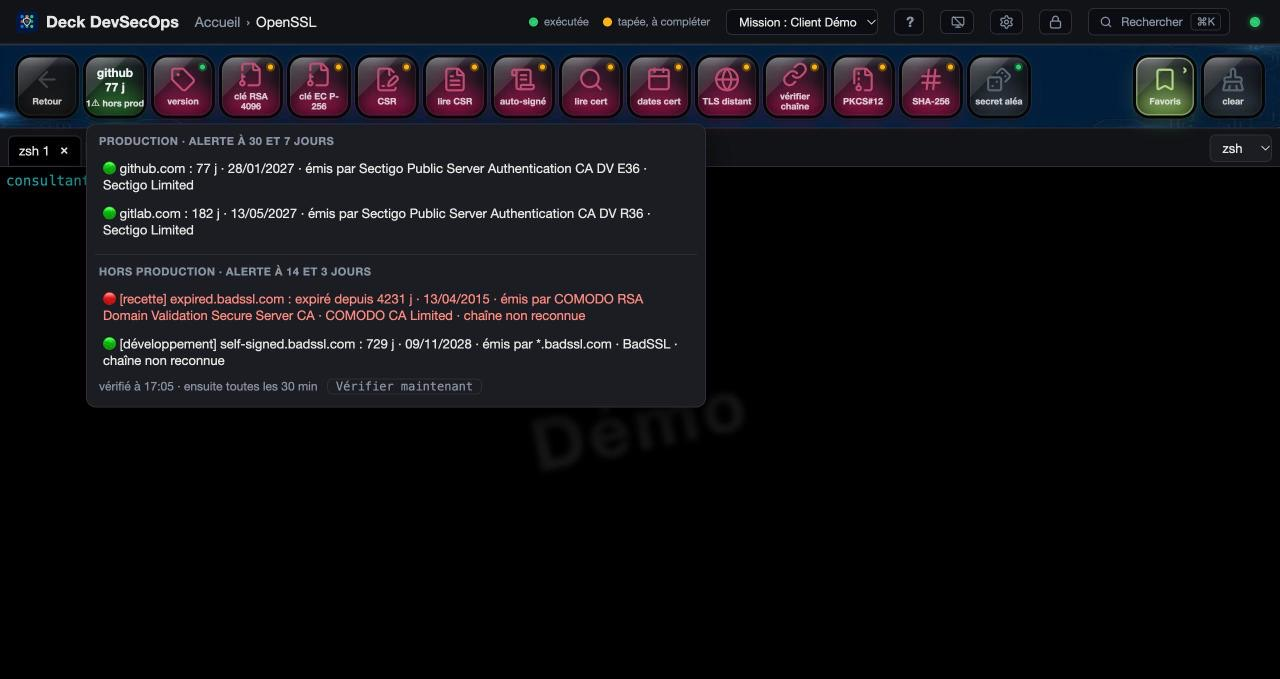
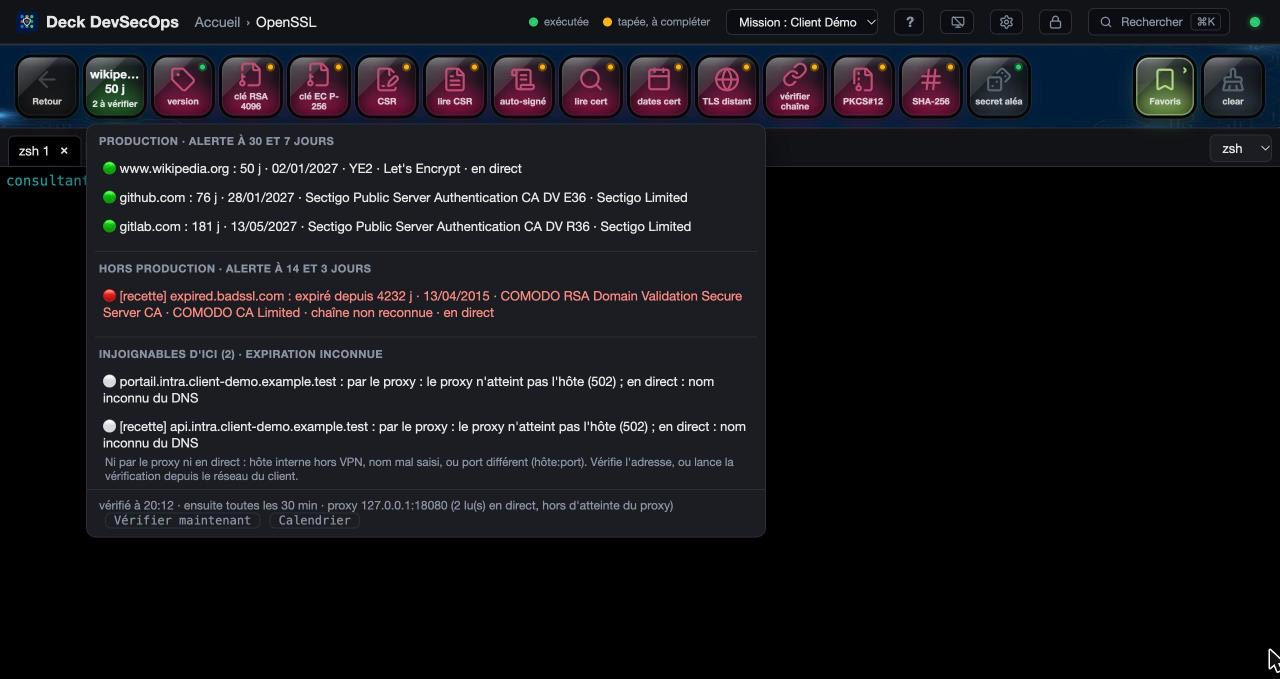
Certificats : repli en direct quand le proxy n'atteint pas l'hôte, affichage clarifié
- Proxy qui n'atteint pas un hôte (502/503/504, refus, délai : noms internes *.intra…) :
  nouvel essai sans le proxy ; certificat marqué « en direct » ; chemin retenu par hôte
  pour la vérification suivante ; si les deux échouent, les deux raisons
- Touche : titre court (⚠ CERTS), nom sur une ligne (8 caractères), injoignables comptés
  à part (« N à vérifier ») au lieu d'être mêlés aux expirations
- Panneau : Production, Hors production, Injoignables d'ici (avec aide) ; proxy indiqué
  une fois ; barre du bas toujours visible
- Test du repli : serveur TLS local (certificat de test auto-signé, test/fixtures) et
  proxy qui répond 502 ; 85 tests
- docs/08 et capture ; README

Changed region(s): [[0.0625, 0.2165, 0.625, 0.8041], [0.0625, 0.0928, 0.125, 0.1546], [0.9688, 0.9588, 1.0, 0.9897]]

diff --git a/public/app.js b/public/app.js
@@ -706,7 +706,8 @@ function statusKey(id, statusId, key) {
             : s.detail ? `${s.detail}\nAppui : vérifier maintenant` : "Appui : rafraîchir";
 
     const title = Object.assign(document.createElement("span"), { className: "title", textContent: s.title });
-    const lines = Object.assign(document.createElement("span"), { className: "lines" });
+    // Certificats et patchs : nom d'hôte / de VM sur une seule ligne (tronqué), le pied de touche reste visible
+    const lines = Object.assign(document.createElement("span"), { className: `lines${["certs", "patches"].includes(statusId) ? " one-line" : ""}` });
     for (const text of s.lines) {
         const big = s.lines.length === 1 && text.length <= 4;
         lines.append(Object.assign(document.createElement("span"), { className: `line${big ? " big" : ""}`, textContent: text, title: text }));
@@ -1805,20 +1806,33 @@ function renderCertsPanel(checking = false) {
         const level = c.level ?? (c.days < 7 ? "rouge" : c.days < 30 ? "orange" : "ok");
         const dot = c.error ? "⚪" : c.intercepted ? "⚠" : level === "rouge" ? "🔴" : level === "orange" ? "🟠" : "🟢";
         const env = c.env && c.env !== "production" ? `[${c.env}] ` : "";
-        const via = c.via ? ` · via proxy ${c.via}` : "";
-        const when = c.error ? `injoignable, ${c.error}`
-            : c.intercepted ? `certificat du proxy (${c.issuer}) : la date du site n'est pas visible d'ici${via}`
-            : `${c.days < 0 ? `expiré depuis ${-c.days} j` : `${c.days} j`} · ${new Date(c.until).toLocaleDateString("fr-FR")} · émis par ${c.issuer || "?"}${c.trusted ? "" : " · chaîne non reconnue"}${via}`;
-        return { label: `${dot} ${env}${c.target} : ${when}`, title: c.reason ? `${c.target} : ${c.reason}` : c.target, onClick: () => {}, prod: !c.error && !c.intercepted && level === "rouge" };
+        // Chemin : le proxy est indiqué une fois en bas du panneau ; ici seulement le repli en direct
+        const route = c.direct ? " · en direct" : "";
+        const when = c.error ? c.error
+            : c.intercepted ? `certificat du proxy (${c.issuer}) : la date du site n'est pas visible d'ici`
+            : `${c.days < 0 ? `expiré depuis ${-c.days} j` : `${c.days} j`} · ${new Date(c.until).toLocaleDateString("fr-FR")} · ${c.issuer || "émetteur inconnu"}${c.trusted ? "" : " · chaîne non reconnue"}${route}`;
+        const title = [c.target, c.reason, c.via && !c.direct ? `via le proxy ${c.via}` : "", c.direct ? "le proxy n'atteint pas cet hôte : certificat lu en direct" : ""].filter(Boolean).join("\n");
+        return { label: `${dot} ${env}${c.target} : ${when}`, title, onClick: () => {}, prod: !c.error && !c.intercepted && level === "rouge" };
     };
-    // Production d'abord (seuils 30 / 7 j), puis les autres environnements (14 / 3 j)
+    // Production d'abord (seuils 30 / 7 j), puis les autres environnements (14 / 3 j), puis ce qui n'a pas pu être lu
     const all = s.items ?? [];
-    const prod = all.filter((c) => (c.env ?? "production") === "production").map(row);
-    const others = all.filter((c) => (c.env ?? "production") !== "production").map(row);
-    const sections = [pickerSection(`Production · alerte à 30 et 7 jours`, prod, all.length ? "aucun certificat de production" : "aucun certificat : Réglages › Missions › Modifier › Certificats à surveiller")];
+    const readable = all.filter((c) => !c.error);
+    const failed = all.filter((c) => c.error);
+    const prod = readable.filter((c) => (c.env ?? "production") === "production").map(row);
+    const others = readable.filter((c) => (c.env ?? "production") !== "production").map(row);
+    const sections = [];
+    if (prod.length || !all.length) sections.push(pickerSection("Production · alerte à 30 et 7 jours", prod, "aucun certificat : Réglages › Missions › Modifier › Certificats à surveiller"));
     if (others.length) sections.push(pickerSection("Hors production · alerte à 14 et 3 jours", others, ""));
+    if (failed.length) {
+        sections.push(pickerSection(`Injoignables d'ici (${failed.length}) · expiration inconnue`, failed.map(row), ""));
+        sections.push(Object.assign(document.createElement("p"), { className: "picker-note certs-hint",
+            textContent: "Ni par le proxy ni en direct : hôte interne hors VPN, nom mal saisi, ou port différent (hôte:port). Vérifie l'adresse, ou lance la vérification depuis le réseau du client." }));
+    }
+    const proxies = [...new Set(all.map((c) => c.via).filter(Boolean))];
+    const direct = all.filter((c) => c.direct).length;
+    const route = proxies.length ? ` · proxy ${proxies.join(", ")}${direct ? ` (${direct} lu(s) en direct, hors d'atteinte du proxy)` : ""}` : "";
     const foot = Object.assign(document.createElement("p"), { className: "picker-note",
-        textContent: checking ? "vérification en cours…" : `vérifié à ${new Date(s.checked ?? Date.now()).toLocaleTimeString("fr-FR", { hour: "2-digit", minute: "2-digit" })} · ensuite toutes les 30 min` });
+        textContent: checking ? "vérification en cours…" : `vérifié à ${new Date(s.checked ?? Date.now()).toLocaleTimeString("fr-FR", { hour: "2-digit", minute: "2-digit" })} · ensuite toutes les 30 min${route}` });
     const again = Object.assign(document.createElement("button"), { type: "button", className: "picker-action", textContent: "Vérifier maintenant" });
     again.addEventListener("click", () => { renderCertsPanel(true); send({ t: "press", id: "certs" }); });
     const cal = Object.assign(document.createElement("button"), { type: "button", className: "picker-action", textContent: "Calendrier", title: "Échéances (certificats et patchs), export Outlook" });

diff --git a/public/style.css b/public/style.css
@@ -1307,7 +1307,9 @@ main {
 #rec-list li { grid-template-columns: 90px minmax(0, 1fr) auto auto; }
 .rec-play { border: 1px solid var(--border); border-radius: 4px; background: var(--panel); color: var(--text); cursor: pointer; padding: 0 7px; font-size: 11px; }
 /* Panneau des certificats : lignes complètes (adresse, jours, date) */
-.picker.certs-panel { width: min(620px, 94vw); }
+.picker.certs-panel { width: min(680px, 94vw); max-height: calc(100vh - 150px); padding-bottom: 0; }
+/* Barre du bas (heure de vérification, proxy, boutons) toujours visible, même avec beaucoup de certificats */
+.picker.certs-panel > .picker-note:last-child { position: sticky; bottom: 0; margin: 6px -8px 0; padding: 8px 12px; background: var(--panel); border-top: 1px solid var(--border); }
 .picker.certs-panel .picker-item { white-space: normal; overflow: visible; text-overflow: clip; cursor: default; }
 .picker.certs-panel .picker-note .picker-action { margin-left: 6px; }
 
@@ -1509,3 +1511,5 @@ input[type="date"]::-webkit-calendar-picker-indicator:hover, input[type="datetim
 .patch-table th[data-sort]:hover { color: var(--text); }
 .patch-table th.sorted { color: var(--accent); }
 .patch-table th[data-sort]::after { content: attr(data-arrow); margin-left: 4px; }
+.certs-hint { margin: -2px 10px 6px; font-size: 11.5px; color: var(--muted); }
+.key.status .lines.one-line .line { display: block; white-space: nowrap; overflow: hidden; text-overflow: ellipsis; overflow-wrap: normal; }

diff --git a/README.md b/README.md
@@ -169,7 +169,7 @@ Quand le voyant kubectl est en **production** (contexte ou namespace qui corresp
 
 **Variables de mission** : dans le formulaire, une par ligne (`registry = harbor.client.fr`, `ns = app-prod`…). Une commande (Mes actions ou `config.jsonc`) les utilise avec `{mission.registry}` : la valeur vient de la mission active, la même touche sert donc chez chaque client. Sans mission active, ou si la variable manque, la touche ne tape rien et le dit.
 
-**Certificats à surveiller** : une adresse par ligne (`api.client.fr`, `ldap.client.fr:636`), suivie de son environnement (`production`, `recette`, `qualification`, `développement`, `autre` ; `prod`, `rec`, `dev` acceptés ; sans rien = production). Production : orange < 30 j, rouge < 7 j, alertes aux deux seuils ; hors production : orange < 14 j, rouge < 3 j, alerte au rouge seulement. Le voyant suit la production (**CERTS PROD**) et signale à part les problèmes hors production (« 1⚠ hors prod »), le panneau sépare Production et Hors production. Le voyant **certificats** de la rubrique OpenSSL (ou `cert-status` dans `shortcuts`) montre le plus proche de l'expiration : vert, **orange à moins de 30 jours**, **rouge à moins de 7** ou expiré ; **un clic** ouvre la liste de tous les certificats suivis (pastille, jours restants, date, chaîne non reconnue, serveur injoignable avec la raison en clair : réseau inaccessible, nom inconnu, port fermé…) et relance la vérification ; sinon vérification toutes les 30 min. La date est lue par une simple poignée de main TLS (Node, sans openssl, 10 s au plus). **Réseau d'entreprise avec proxy** (ex. Zscaler) : si `HTTPS_PROXY` (ou `https_proxy`) est défini, la vérification passe par un tunnel `CONNECT` du proxy (identifiants de l'URL acceptés), `NO_PROXY` est respecté ; sous Windows, définir la variable pour l'utilisateur (`setx HTTPS_PROXY http://proxy:8080`) puis redémarrer le deck. Le panneau indique l'**émetteur** et le passage par le proxy ; un certificat présenté par un proxy qui déchiffre le TLS (Zscaler, Netskope…) est signalé ⚠ et ne compte pas pour la couleur, sa date n'étant pas celle du site. Erreurs distinguées : DNS, proxy injoignable, proxy qui refuse (403, 407, 502…), délai dépassé. **Alerte** quand un certificat passe à l'orange (moins de 30 jours) puis au rouge (moins de 7 jours ou expiré) : message dans le deck et notification du système si elles sont autorisées (cloche de la barre des terminaux) ; une seule fois par seuil, retenue dans `.deck-cert-alerts.json` (hors Git), de nouveau après un renouvellement.
+**Certificats à surveiller** : une adresse par ligne (`api.client.fr`, `ldap.client.fr:636`), suivie de son environnement (`production`, `recette`, `qualification`, `développement`, `autre` ; `prod`, `rec`, `dev` acceptés ; sans rien = production). Production : orange < 30 j, rouge < 7 j, alertes aux deux seuils ; hors production : orange < 14 j, rouge < 3 j, alerte au rouge seulement. Le voyant suit la production et signale à part les problèmes hors production (« 1⚠ hors prod ») et les certificats injoignables (« 6 à vérifier ») ; le panneau sépare Production, Hors production et Injoignables d'ici. Le voyant **certificats** de la rubrique OpenSSL (ou `cert-status` dans `shortcuts`) montre le plus proche de l'expiration : vert, **orange à moins de 30 jours**, **rouge à moins de 7** ou expiré ; **un clic** ouvre la liste de tous les certificats suivis (pastille, jours restants, date, chaîne non reconnue, serveur injoignable avec la raison en clair : réseau inaccessible, nom inconnu, port fermé…) et relance la vérification ; sinon vérification toutes les 30 min. La date est lue par une simple poignée de main TLS (Node, sans openssl, 10 s au plus). **Réseau d'entreprise avec proxy** (ex. Zscaler) : si `HTTPS_PROXY` (ou `https_proxy`) est défini, la vérification passe par un tunnel `CONNECT` du proxy (identifiants de l'URL acceptés), `NO_PROXY` est respecté ; si le proxy n'atteint pas un hôte (502, refus, délai : noms internes `*.intra…`), **repli en direct**, certificat marqué « en direct » et chemin retenu pour la fois suivante ; sous Windows, définir la variable pour l'utilisateur (`setx HTTPS_PROXY http://proxy:8080`) puis redémarrer le deck. Le panneau indique l'**émetteur** et le passage par le proxy ; un certificat présenté par un proxy qui déchiffre le TLS (Zscaler, Netskope…) est signalé ⚠ et ne compte pas pour la couleur, sa date n'étant pas celle du site. Erreurs distinguées : DNS, proxy injoignable, proxy qui refuse (403, 407, 502…), délai dépassé. **Alerte** quand un certificat passe à l'orange (moins de 30 jours) puis au rouge (moins de 7 jours ou expiré) : message dans le deck et notification du système si elles sont autorisées (cloche de la barre des terminaux) ; une seule fois par seuil, retenue dans `.deck-cert-alerts.json` (hors Git), de nouveau après un renouvellement.
 
 ### Rubriques activées
 

diff --git a/docs/08-missions-et-certificats.md b/docs/08-missions-et-certificats.md
@@ -44,13 +44,15 @@ Les seuils dépendent de l'environnement :
 | Hors production | moins de 14 jours | moins de 3 jours, ou expiré | rouge seulement |
 
 Le voyant **certificats**, première touche de la rubrique **OpenSSL** (ou `cert-status` sur l'accueil via
-`config.jsonc`), affiche **le certificat de production le plus urgent** (titre **CERTS PROD**). Un problème hors
-production ne change pas sa couleur : il est signalé en bas de la touche (« 1⚠ hors prod »). Gris : aucun certificat
-suivi, ou serveurs injoignables.
+`config.jsonc`), affiche **le certificat de production le plus urgent** (nom court, jours restants). Un problème
+hors production ne change pas sa couleur : il est signalé en bas de la touche (« 1⚠ hors prod »). Les certificats
+**injoignables** (expiration inconnue) sont comptés à part : « 6 à vérifier ». Gris : aucun certificat suivi, ou
+aucun lisible.
 
-- **Clic** : la liste de tous les certificats en deux parties, **Production** puis **Hors production** (avec
-  l'environnement de chacun), avec les jours restants, la date, l'**émetteur**, une chaîne non reconnue ou un serveur
-  injoignable avec la raison en clair, et **Vérifier maintenant**. Sinon, vérification toutes les 30 min.
+- **Clic** : la liste de tous les certificats en trois parties, **Production**, **Hors production** (avec
+  l'environnement de chacun), puis **Injoignables d'ici** (avec la raison en clair). Pour chacun : jours restants,
+  date, émetteur, chaîne non reconnue, « en direct » s'il a été lu sans le proxy. En bas : heure de la vérification,
+  proxy utilisé, **Vérifier maintenant** et **Calendrier**. Sinon, vérification toutes les 30 min.
 - **Alerte** : message dans le deck et notification du système (si autorisée avec la cloche des terminaux), une seule
   fois par seuil ; hors production, seulement au rouge.
 - La date est lue par une simple poignée de main TLS (Node, sans openssl, 10 s au plus). Rien d'autre n'est envoyé.
@@ -61,6 +63,11 @@ Sur un réseau où toute sortie passe par un proxy (ex. Zscaler) et où le DNS i
 
 - définis `HTTPS_PROXY` pour ton utilisateur (`setx HTTPS_PROXY http://proxy:8080` sous Windows), puis redémarre le deck ;
 - la vérification passe alors par un tunnel `CONNECT` du proxy ; `NO_PROXY` est respecté ;
+- **repli en direct** : si le proxy n'atteint pas un hôte (502, 503, 504, refus, délai), cas des noms **internes**
+  de l'entreprise (`*.intra…`) joignables seulement depuis le réseau interne ou le VPN, le deck réessaie **sans le
+  proxy** ; le certificat lu ainsi est marqué « en direct », et ce chemin est essayé en premier la fois suivante.
+  Si les deux échouent, les deux raisons sont affichées (ex. « par le proxy : 502 ; en direct : nom inconnu du
+  DNS ») : hôte hors VPN, nom mal saisi, ou port différent (`hôte:port`) ;
 - si le proxy **déchiffre le TLS**, le certificat vu est celui du proxy : la ligne est marquée ⚠ et ne compte pas
   pour la couleur ;
 - erreurs distinguées : nom inconnu du DNS, proxy injoignable, refus du proxy (403, 407, 502…), délai dépassé.
